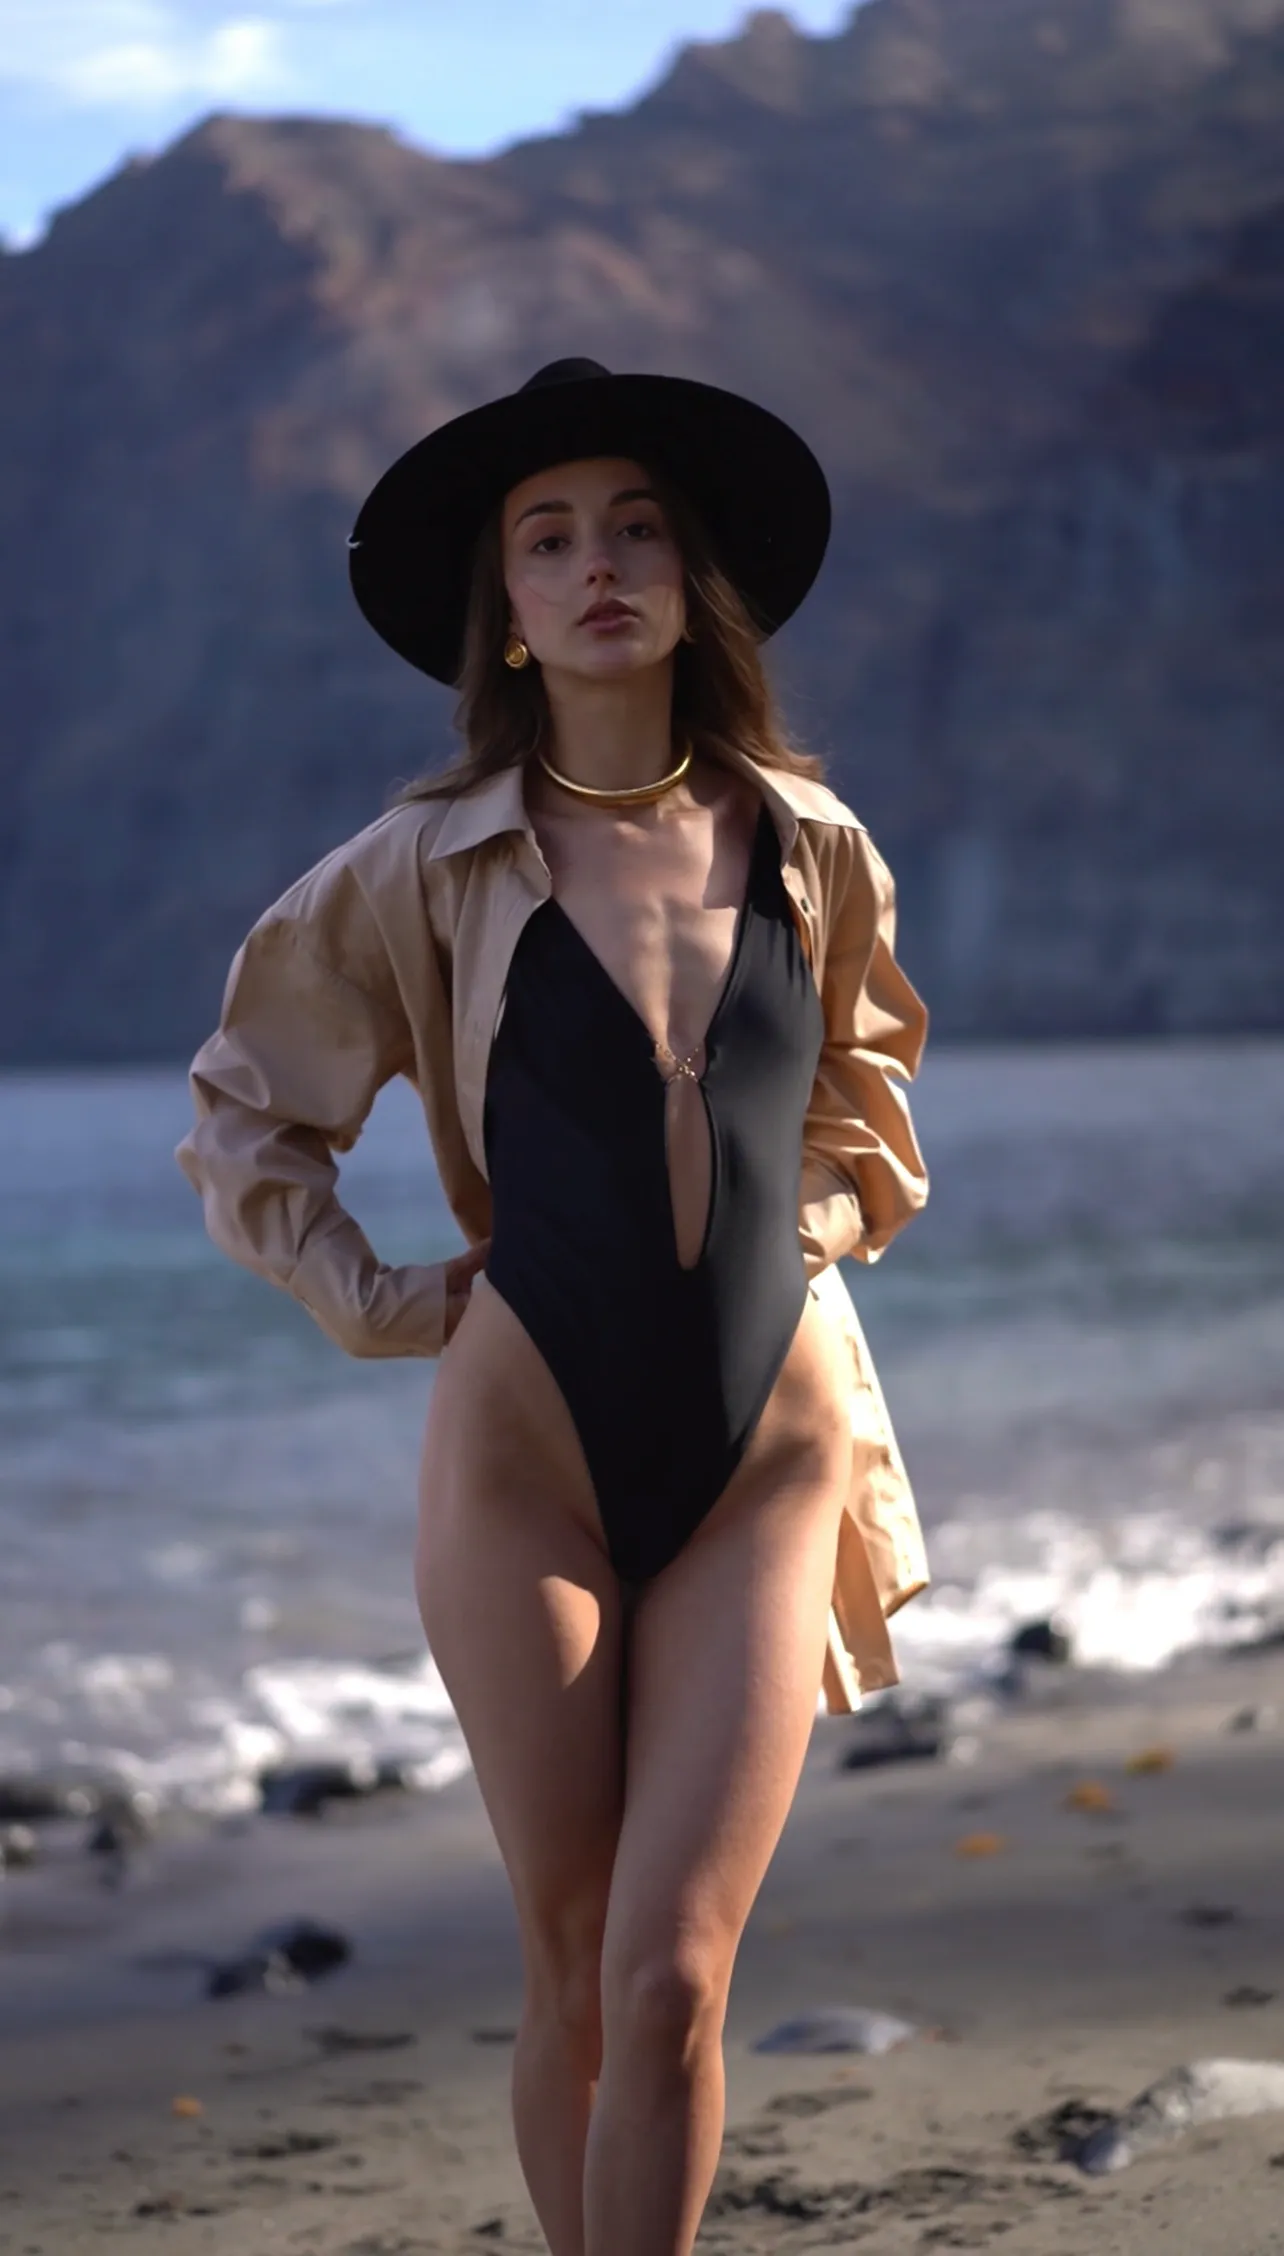
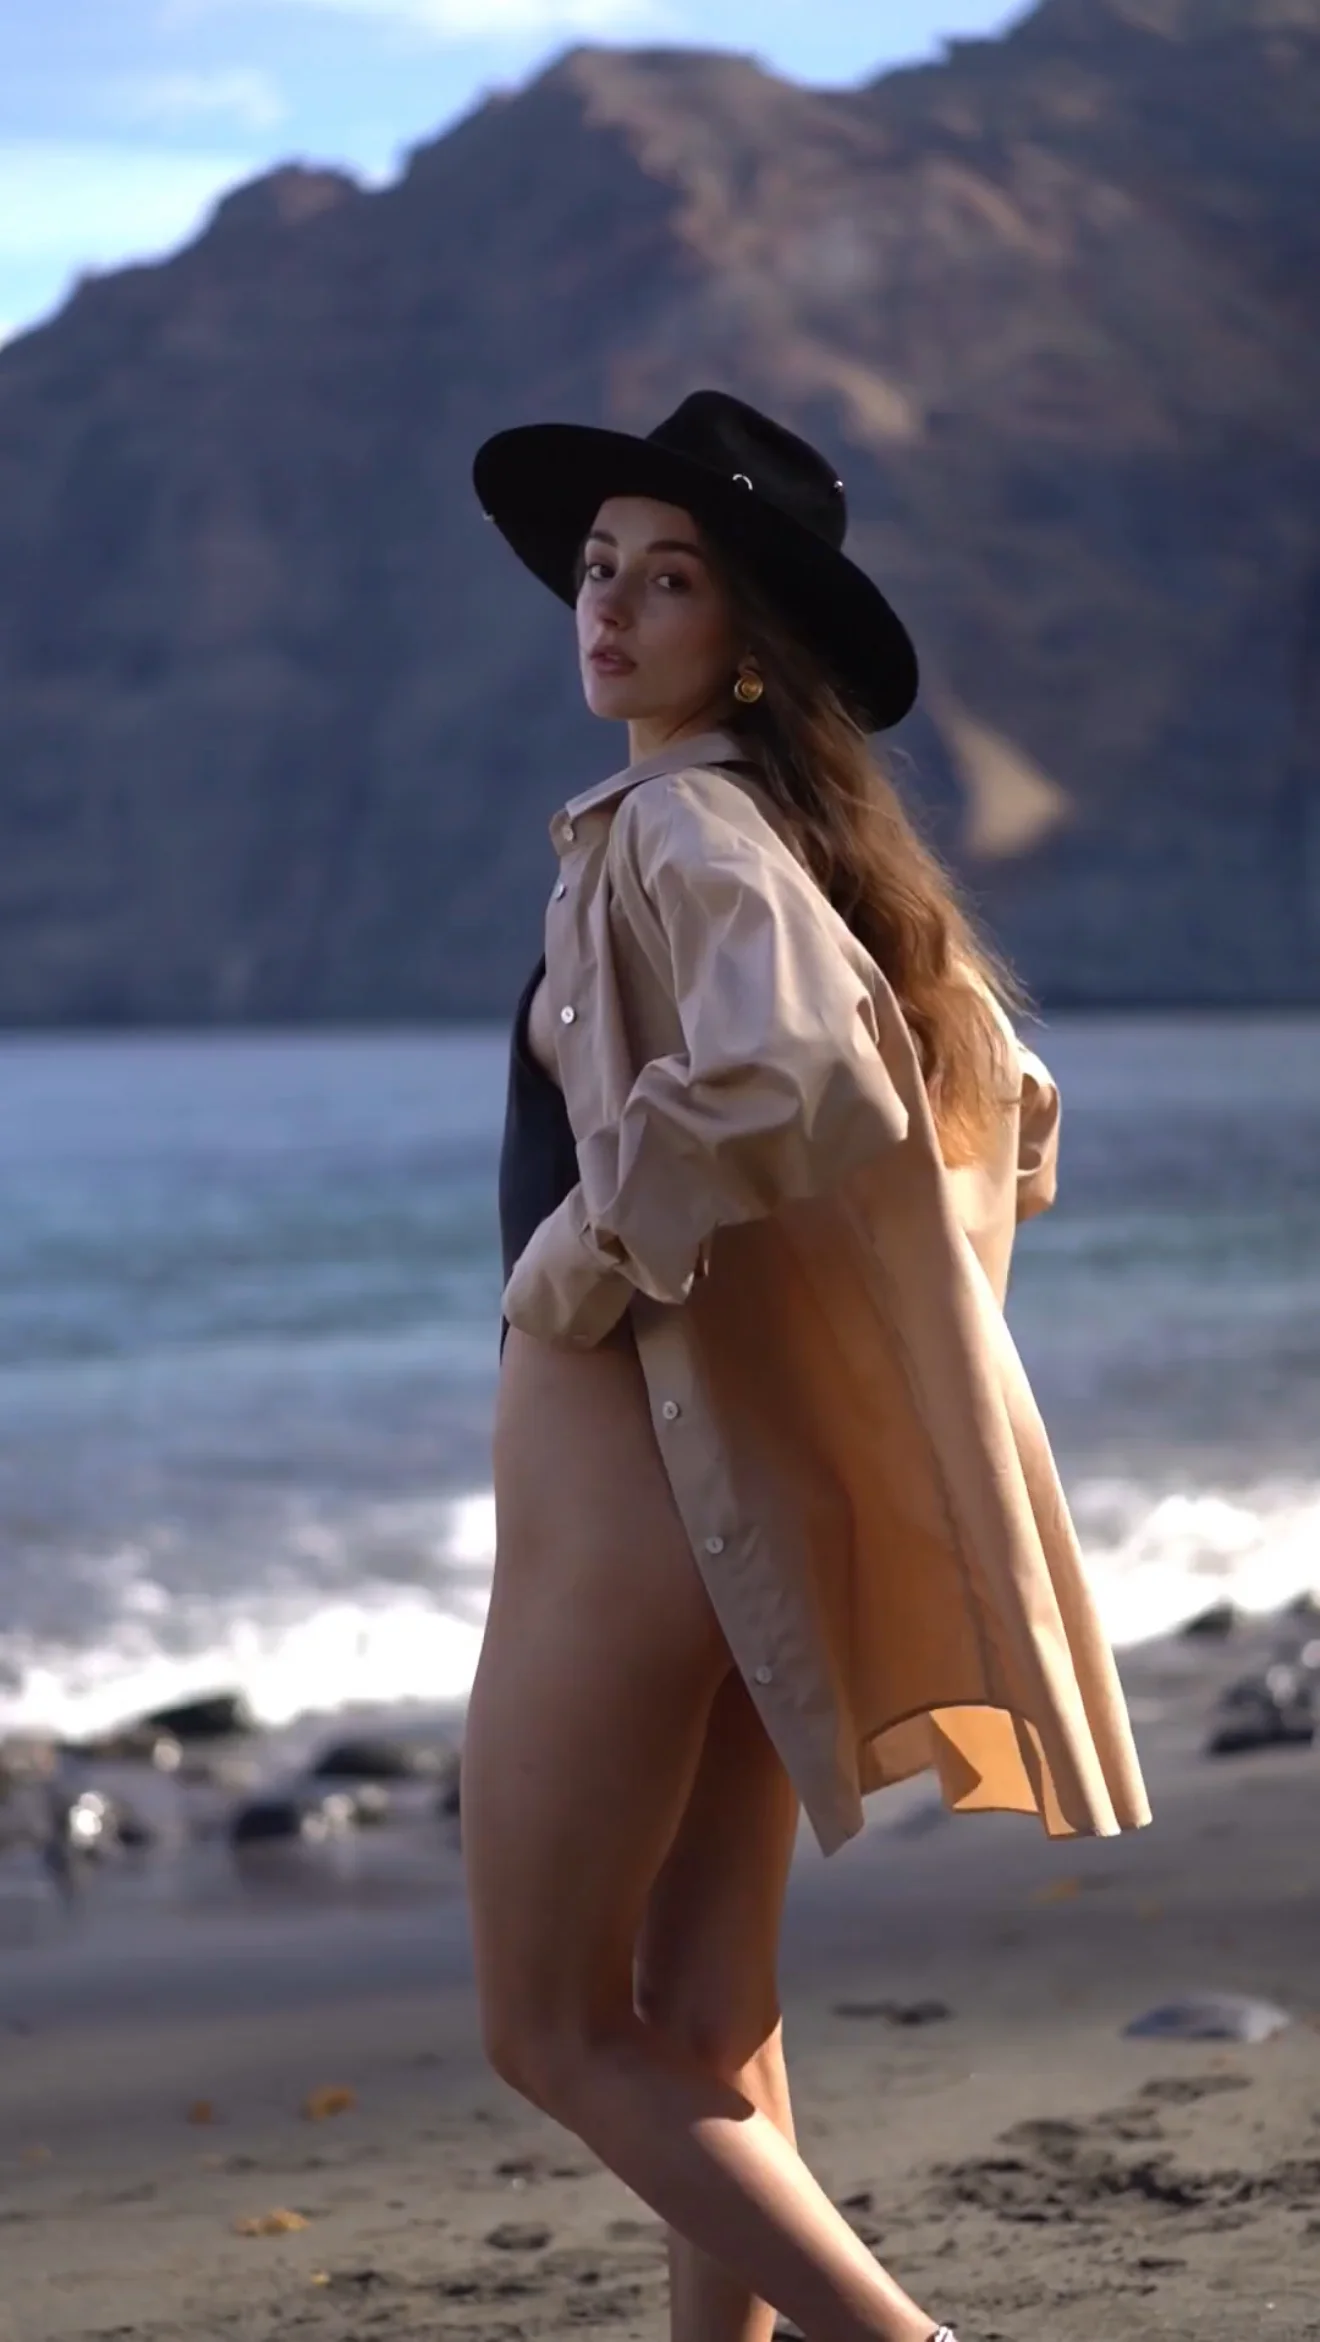
refactor: simplify mobile hero autoplay logic by merging preference and viewport gates into a single effect and cleaning up video element props

diff --git a/src/hooks/useVideoAutoplay.ts b/src/hooks/useVideoAutoplay.ts
@@ -5,8 +5,9 @@ import { useEffect, useRef, useState } from "react";
 /**
  * Lifecycle of the mobile hero video.
  *
- * - `deciding` — the preference and viewport gates have not both cleared. No
- *   element is mounted and not a byte of video is requested.
+ * - `deciding` — the gate below has not cleared. No element is mounted and not a
+ *   byte of video is requested. Also where a suppressed visit simply stays: it
+ *   renders identically to `static`, so there is nothing to transition to.
  * - `probing`  — the element is mounted and one gesture-less `play()` is in
  *   flight. That attempt *is* the Low Power Mode test: iOS exposes no API for
  *   the setting, but WebKit refuses unprompted playback while it is on.
@@ -21,12 +22,11 @@ type HeroVideoState = "deciding" | "probing" | "playing" | "static";
 const REDUCED_MOTION_QUERY = "(prefers-reduced-motion: reduce)";
 
 /**
- * How long to wait for the first frame before giving up on the video. A request
- * that stalls after its headers settles neither `play()` nor `error`, so without
- * a deadline a hidden element would keep pulling the whole 7.9 MB down for the
- * rest of the visit. Generous enough not to punish a slow-but-working start;
- * short enough that a loop which would only begin seconds in loses to the
- * poster it is covering, which is the better hero anyway.
+ * How long to wait for the first frame before giving up. A request that stalls
+ * after its headers settles neither `play()` nor `error`, so without a deadline
+ * a hidden element would keep pulling the whole file down for the rest of the
+ * visit. Generous enough not to punish a slow-but-working start; short enough
+ * that a loop which would only begin seconds in loses to the poster it covers.
  */
 const PROBE_TIMEOUT_MS = 5000;
 
@@ -39,57 +39,31 @@ function prefersLessData(): boolean {
 }
 
 /**
- * Reasons never to fetch or start the video. Checked before every transition
- * rather than once on mount, so the outcome does not depend on the order the
- * gates below happen to settle in.
- */
-function motionSuppressed(): boolean {
-  return window.matchMedia(REDUCED_MOTION_QUERY).matches || prefersLessData();
-}
-
-/**
  * Decides whether the mobile hero shows moving video or a static poster, and
  * reports which. Autoplay is attempted exactly once and never retried — see
- * the probe gate below for why.
+ * the probe below for why.
  */
 export function useVideoAutoplay() {
   const containerRef = useRef<HTMLDivElement>(null);
   const videoRef = useRef<HTMLVideoElement>(null);
   const [state, setState] = useState<HeroVideoState>("deciding");
+  const shouldRenderVideo = state === "probing" || state === "playing";
 
-  // Gate 1 — preference. Never start motion the visitor asked not to see
-  // (AGENTS.md rule 4 covers JavaScript, not just CSS), and never spend a
-  // metered connection on decoration. This gate is one-way: switching the
-  // preference back off does not resurrect the video, it takes a reload.
+  // Does this visitor get motion at all, and is the hero on screen yet? Both
+  // are settled in one place, in that order, so a suppressed visit cannot be
+  // overtaken by an observer callback that was already queued.
   useEffect(() => {
-    const query = window.matchMedia(REDUCED_MOTION_QUERY);
+    const reducedMotion = window.matchMedia(REDUCED_MOTION_QUERY);
 
-    const suppress = () => {
-      videoRef.current?.pause();
-      setState("static");
-    };
+    // Never start motion the visitor asked not to see — AGENTS.md rule 4 covers
+    // JavaScript, not just CSS — and never spend a metered connection on
+    // decoration. Bailing out leaves the hook in `deciding`, which renders
+    // exactly what `static` would: the poster, alone. Nothing to tear down and
+    // no state to set, so a suppressed visit costs no extra render at all.
+    if (reducedMotion.matches || prefersLessData()) return;
 
-    if (motionSuppressed()) {
-      suppress();
-      return;
-    }
-
-    const handlePreferenceChange = (event: MediaQueryListEvent) => {
-      if (event.matches) suppress();
-    };
-
-    query.addEventListener("change", handlePreferenceChange);
-    return () => query.removeEventListener("change", handlePreferenceChange);
-  }, []);
-
-  // Gate 2 — viewport. Deferring the request until the hero is on screen lets
-  // the poster take first paint instead of racing the video for bandwidth.
-  useEffect(() => {
-    if (state !== "deciding" || motionSuppressed()) return;
-
-    const container = containerRef.current;
-    if (!container) return;
-
+    // Deferring the request until the hero is on screen lets the poster take
+    // first paint instead of racing the video for bandwidth.
     const observer = new IntersectionObserver((entries) => {
       if (entries.some((entry) => entry.isIntersecting)) {
         observer.disconnect();
@@ -97,26 +71,35 @@ export function useVideoAutoplay() {
       }
     });
 
-    observer.observe(container);
-    return () => observer.disconnect();
-  }, [state]);
+    // One-way: turning the preference back off does not resurrect the video.
+    const handlePreferenceChange = (event: MediaQueryListEvent) => {
+      if (!event.matches) return;
+      observer.disconnect();
+      videoRef.current?.pause();
+      setState("static");
+    };
 
-  // Gate 3 — the probe. Ask for playback once, with no user gesture, and let
-  // the platform answer. A refusal is final: a gesture is the one thing iOS
-  // *will* accept in Low Power Mode, so retrying on touch or scroll is what
-  // made the video ambush people mid-scroll.
+    reducedMotion.addEventListener("change", handlePreferenceChange);
+    if (containerRef.current) observer.observe(containerRef.current);
+
+    return () => {
+      reducedMotion.removeEventListener("change", handlePreferenceChange);
+      observer.disconnect();
+    };
+  }, []);
+
+  // The probe. Ask for playback once, with no user gesture, and let the platform
+  // answer. A refusal is final: a gesture is the one thing iOS *will* accept in
+  // Low Power Mode, so retrying on touch or scroll is what made the video ambush
+  // people mid-scroll. Keyed on the boolean rather than the state, so it runs
+  // once per mounted element instead of again on the reveal.
   useEffect(() => {
-    if (state !== "probing" && state !== "playing") return;
+    if (!shouldRenderVideo) return;
 
     const video = videoRef.current;
     if (!video) return;
 
     let active = true;
-    let probeTimer: number | undefined;
-
-    const reveal = () => {
-      if (active) setState("playing");
-    };
 
     // Anything that is not "frames are advancing" resolves to the poster: a
     // decode error, a stalled request, or a pause we did not ask for. That last
@@ -127,17 +110,21 @@ export function useVideoAutoplay() {
       if (active) setState("static");
     };
 
+    const probeTimer = window.setTimeout(fallBackToPoster, PROBE_TIMEOUT_MS);
+
+    const reveal = () => {
+      window.clearTimeout(probeTimer);
+      if (active) setState("playing");
+    };
+
     video.addEventListener("playing", reveal);
     video.addEventListener("pause", fallBackToPoster);
     video.addEventListener("error", fallBackToPoster);
 
-    if (state === "probing") {
-      // WebKit honours these as element properties, not only as attributes.
-      video.defaultMuted = true;
-      video.muted = true;
-      video.play().catch(fallBackToPoster);
-      probeTimer = window.setTimeout(fallBackToPoster, PROBE_TIMEOUT_MS);
-    }
+    // WebKit honours these as element properties, not only as attributes.
+    video.defaultMuted = true;
+    video.muted = true;
+    video.play().catch(fallBackToPoster);
 
     return () => {
       active = false;
@@ -146,12 +133,12 @@ export function useVideoAutoplay() {
       video.removeEventListener("pause", fallBackToPoster);
       video.removeEventListener("error", fallBackToPoster);
     };
-  }, [state]);
+  }, [shouldRenderVideo]);
 
   return {
     containerRef,
     videoRef,
-    shouldRenderVideo: state === "probing" || state === "playing",
+    shouldRenderVideo,
     isPlaying: state === "playing",
   };
 }

diff --git a/src/components/home/HeroSection.tsx b/src/components/home/HeroSection.tsx
@@ -18,12 +18,10 @@ export function HeroSection() {
       {/* Dark overlay */}
       <div className="absolute inset-0 bg-black/20 z-10" />
 
-      {/* Desktop Hero image. `loading="eager"` + `fetchPriority` rather than the
-          deprecated `priority`, per the Next 16 image docs. Note this does NOT
-          drop the head preload — measured: eager emits one regardless — so this
-          and the mobile poster still preload as competing LCP candidates. Only
-          art direction fixes that; see the `<picture>` item in
-          `docs/release-checklist.md`. */}
+      {/* Desktop Hero image. Eager + `fetchPriority` rather than the deprecated
+          `priority`. Eager still emits a head preload, so this and the mobile
+          poster compete as LCP candidates until they become one `<picture>` —
+          see `docs/release-checklist.md`. */}
       <Image
         src={getAssetPath("/hero/hero_desktop.webp")}
         alt={HERO_ALT}
@@ -61,10 +59,8 @@ export function HeroSection() {
             muted
             playsInline
             preload="none"
-            controls={false}
             disablePictureInPicture
             aria-hidden="true"
-            tabIndex={-1}
             className={`absolute inset-0 w-full h-full object-cover pointer-events-none transition-opacity duration-700 ${
               isPlaying ? "opacity-100" : "opacity-0"
             }`}
